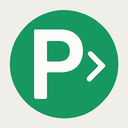
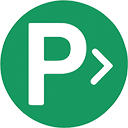
图标以及prompt的修改
修改了3个文件
1. asset文件 - 修改了图标，使图标外围透明。
2. manifest.json - 使插件调用asset内的图标。修改了插件名称和描述。
3. service_worker.js - 修改了预设提示词。

diff --git a/Prompt Booster/service_worker.js b/Prompt Booster/service_worker.js
@@ -16,10 +16,12 @@ async function optimizePrompt(original) {
   }
 
   const sysPrompt = `
-  你是一位 prompt 工程专家。请改写用户的 prompt，使其：
-  1. 清晰具体（指定格式/角色/输出语言等）；
-  2. 删除歧义与赘述，但保留语义；
-  3. 在末尾添加“一次完成，如果不足可继续追问”的说明。`;
+  你是prompt专家，请帮我改善prompt，使其：
+  1. 清晰具体；
+  2. 增加必要语境；
+  你应主动判断原prompt的意图，并以此进一步完善prompt。
+  原prompt如下:
+  `;
 
   const resp = await fetch("https://api.openai.com/v1/chat/completions", {
     method: "POST",
